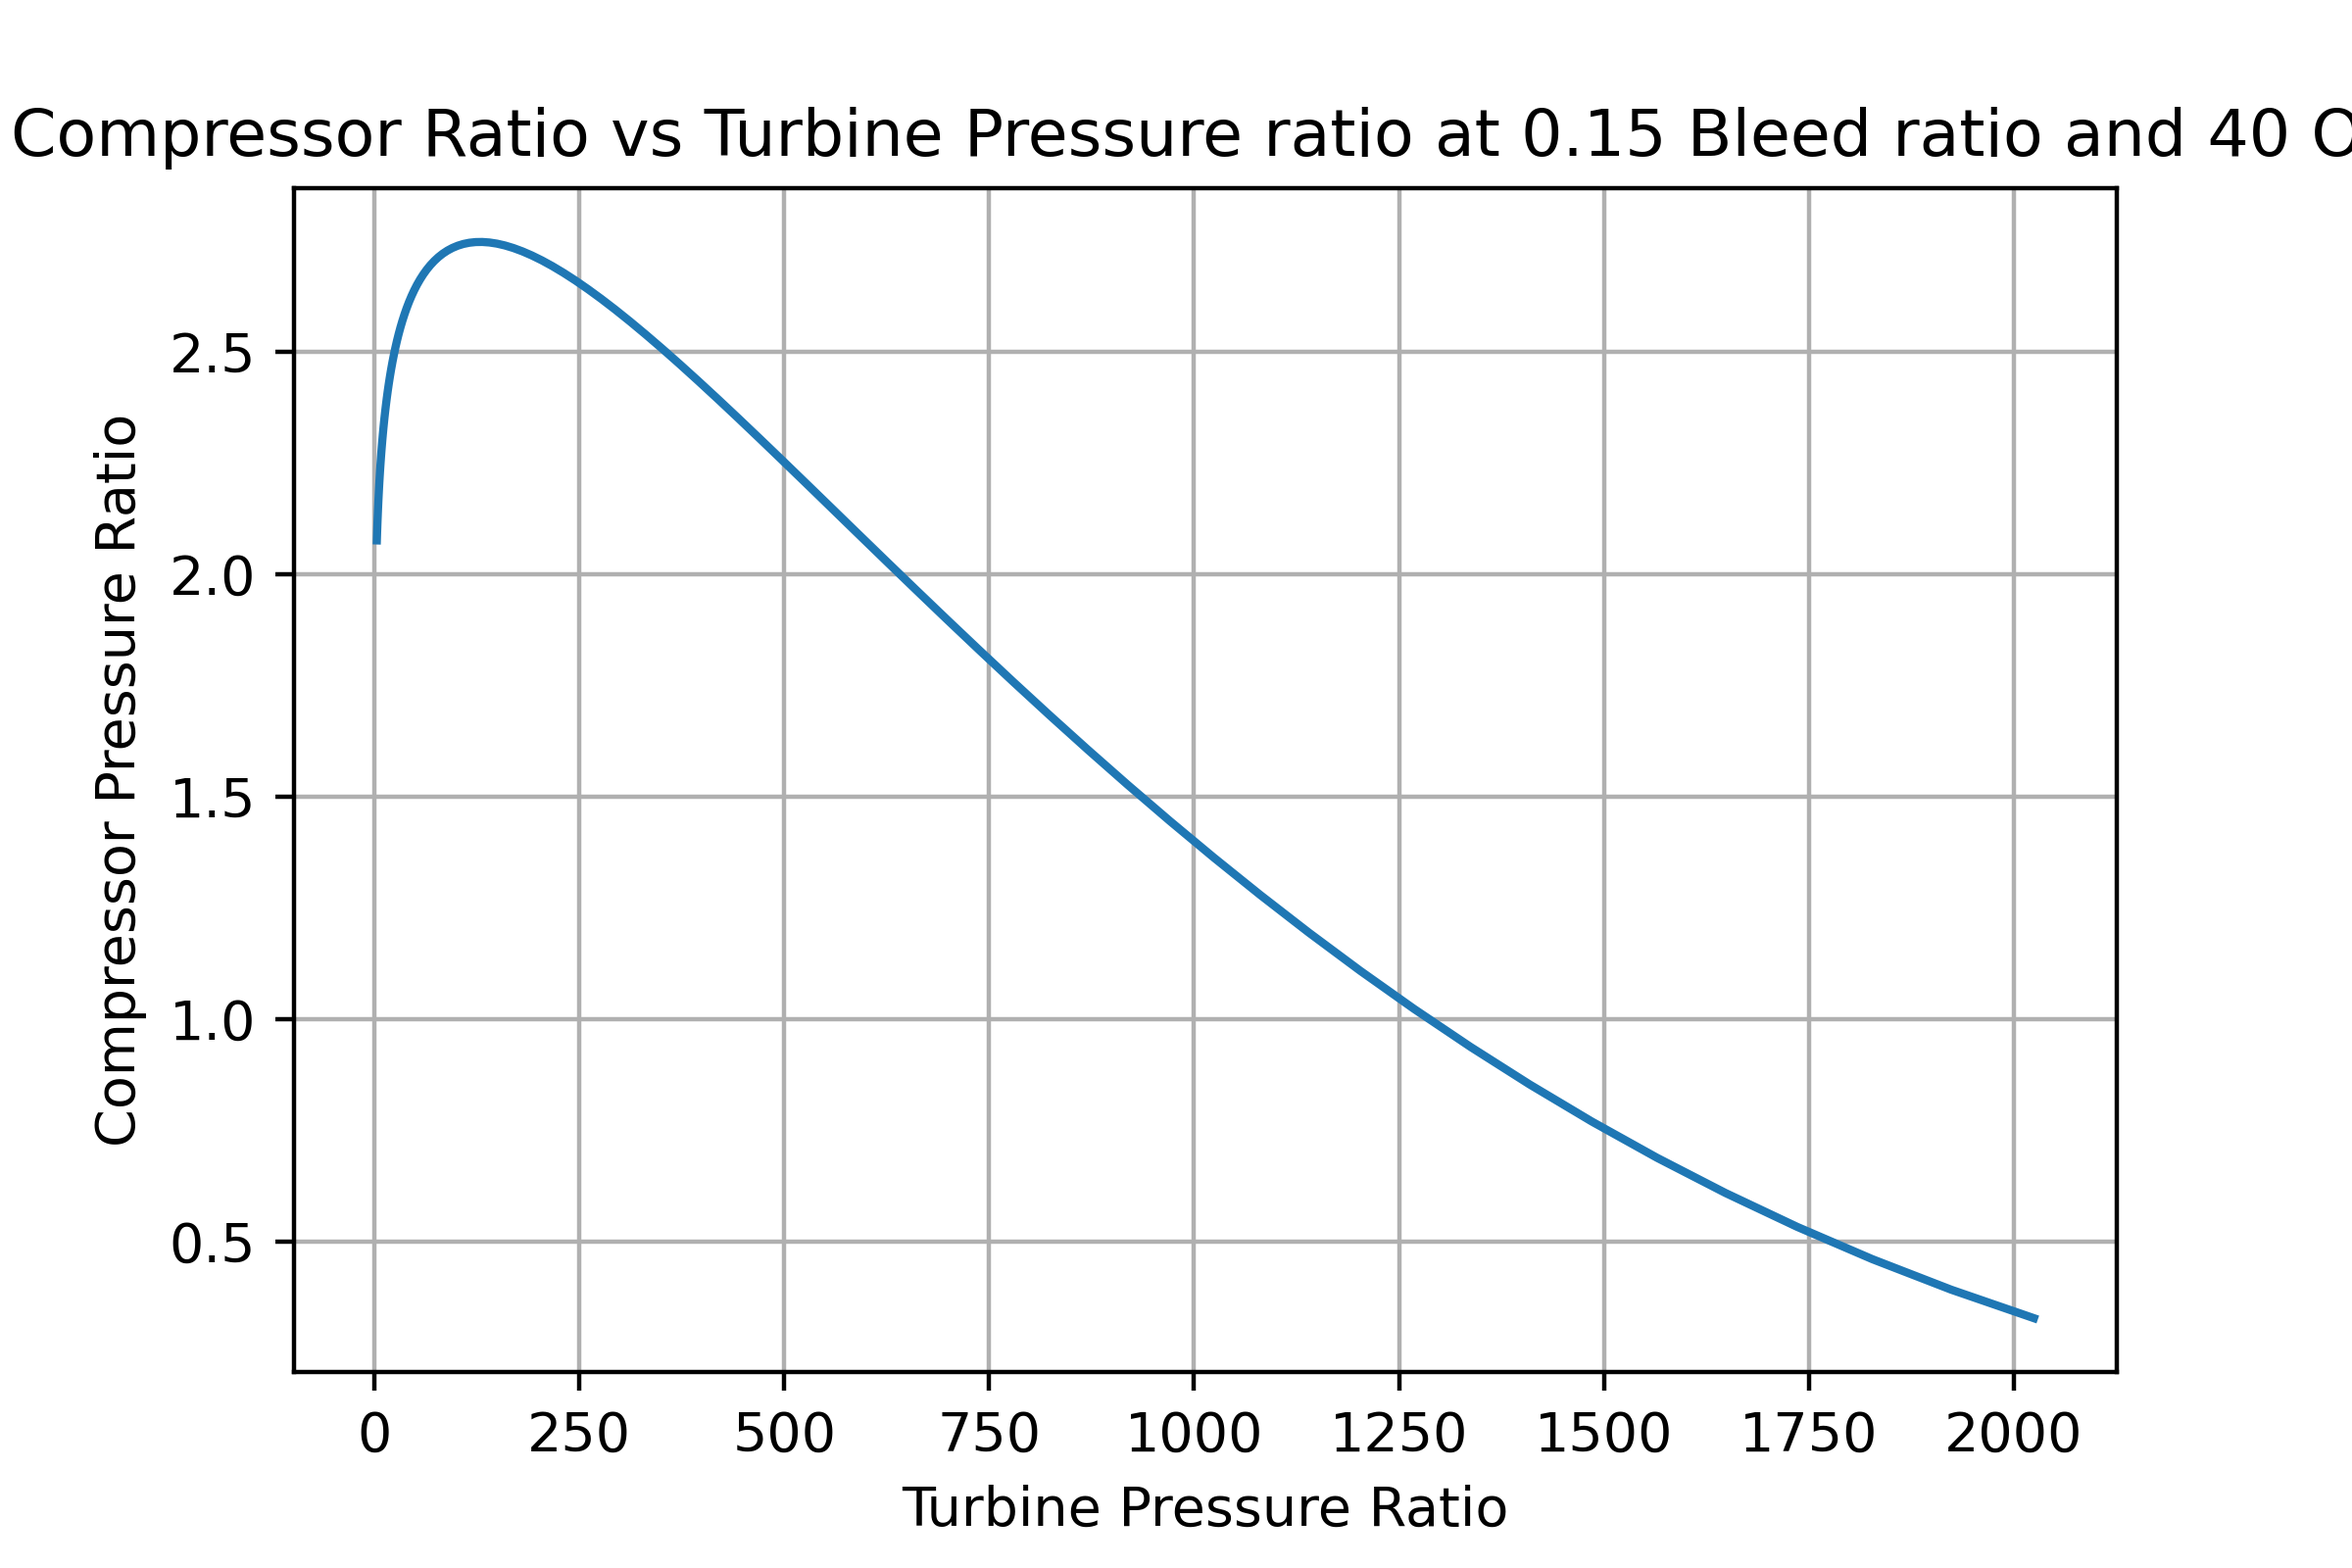
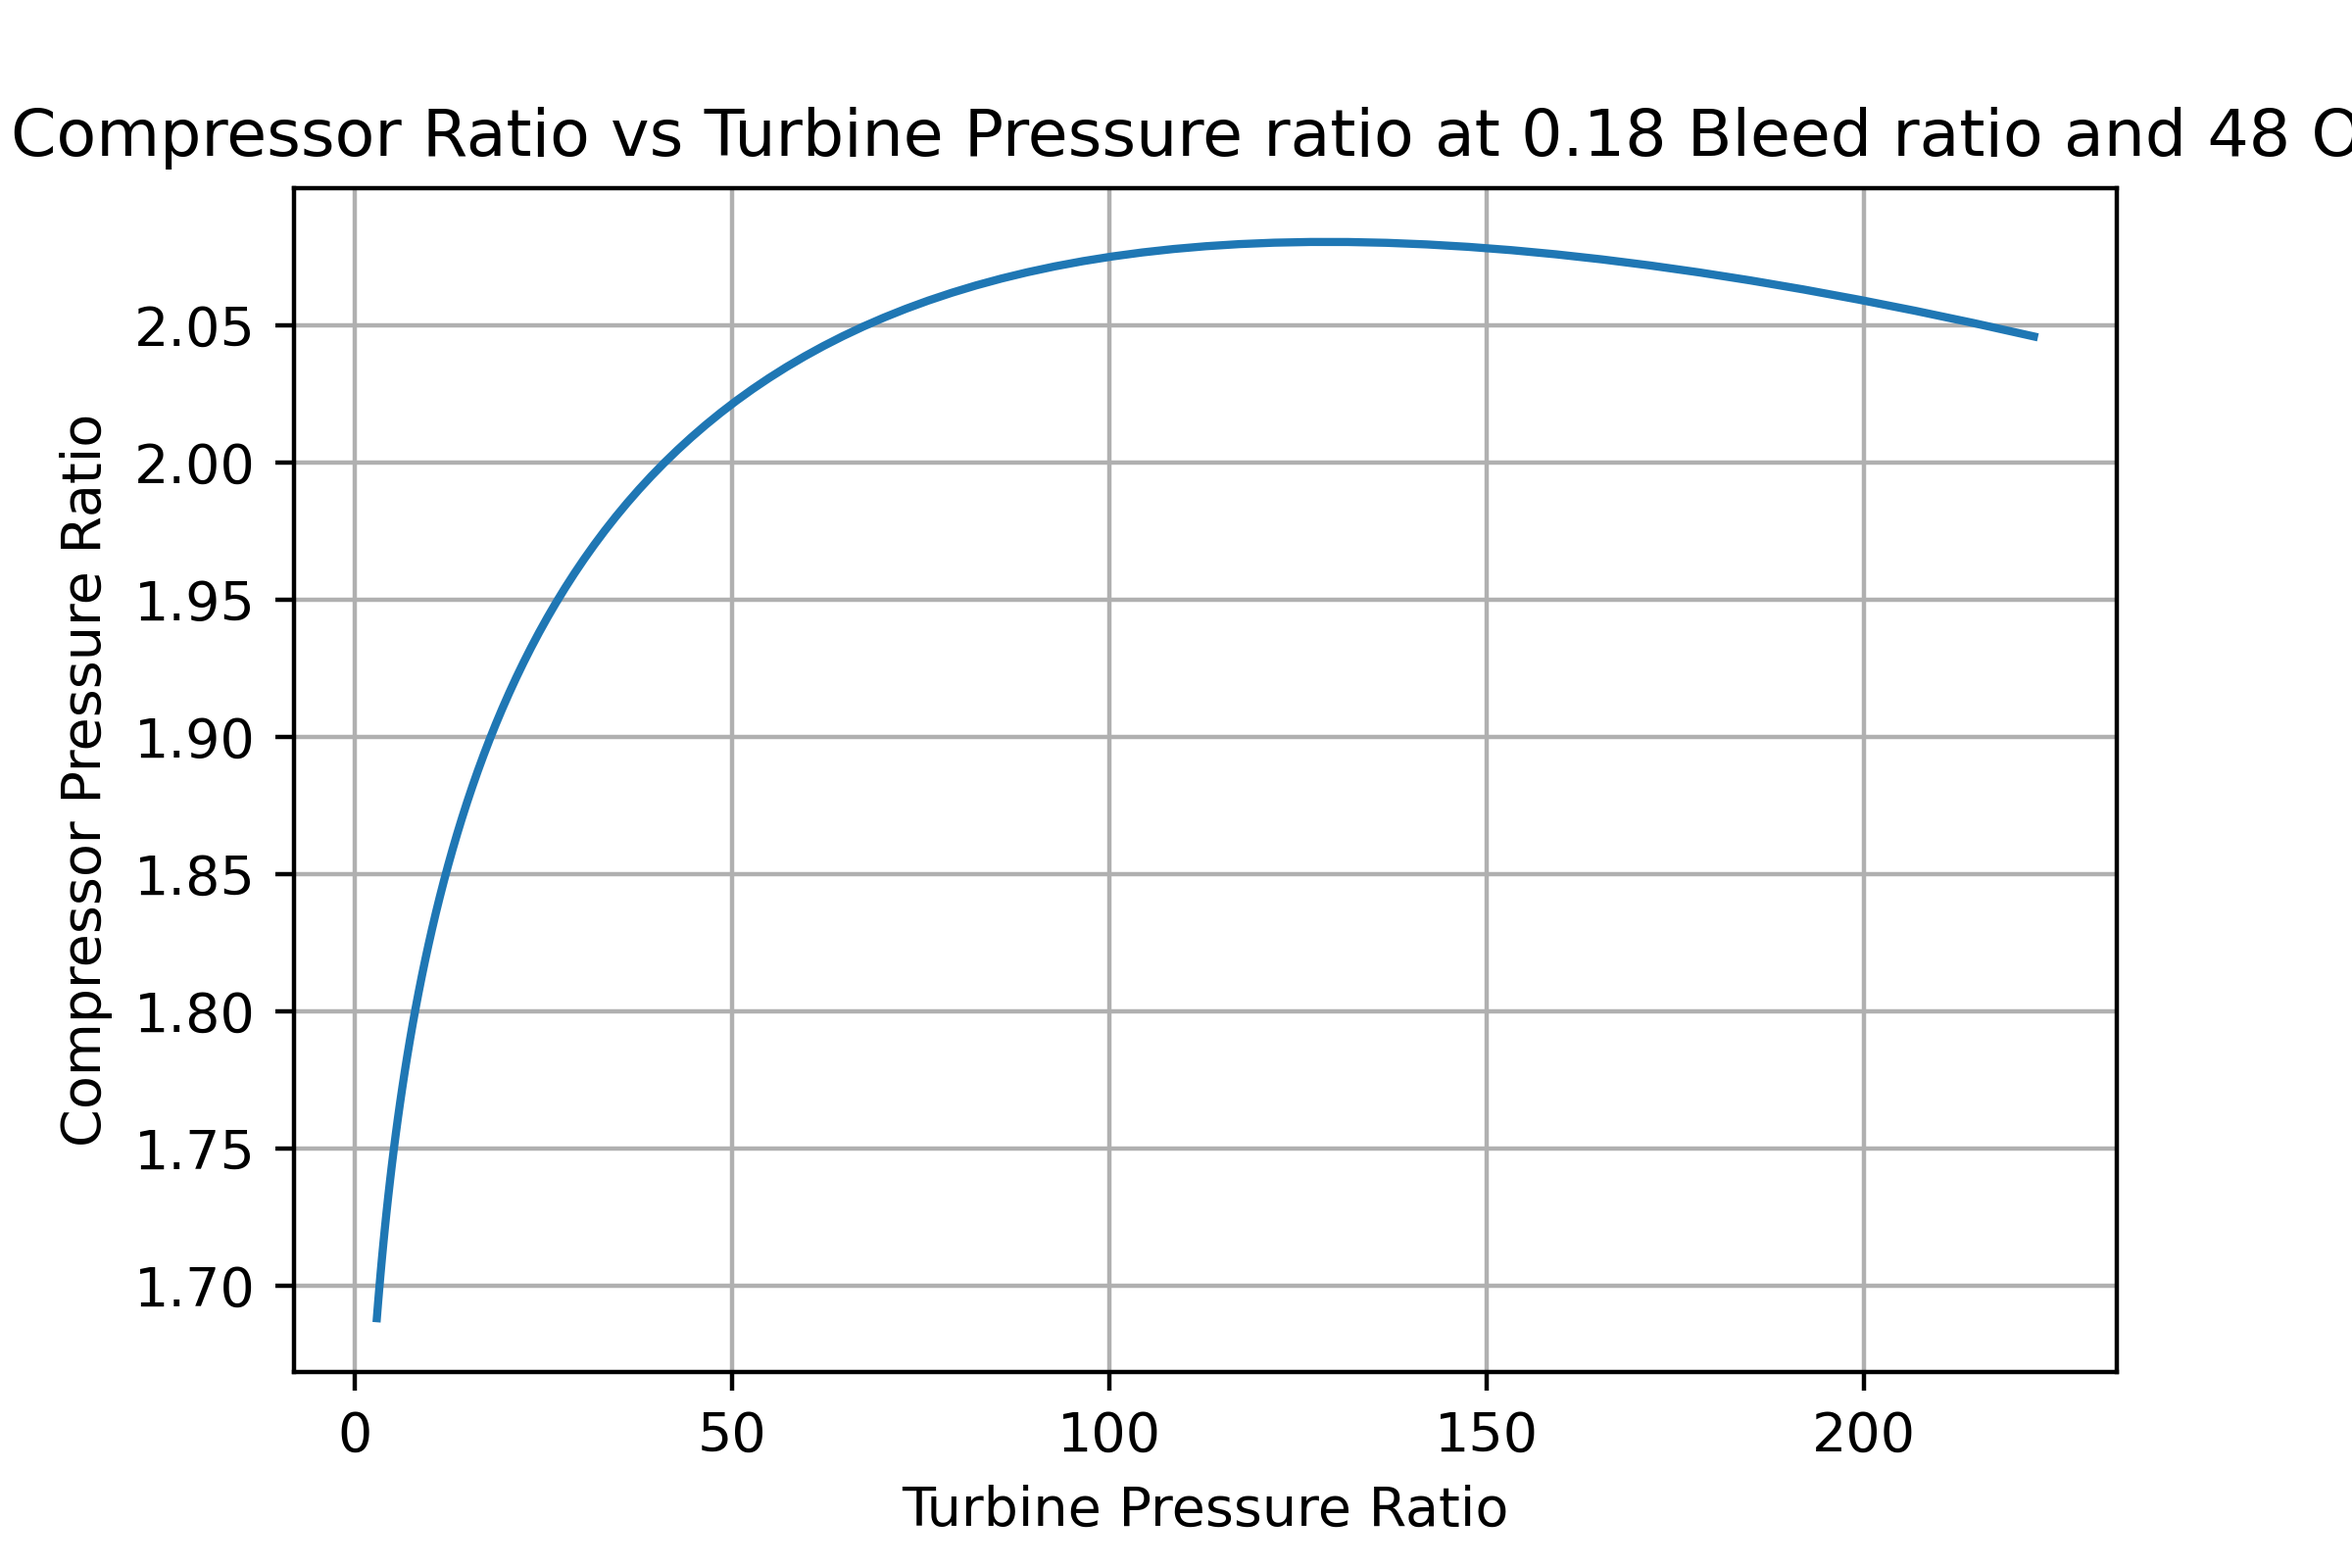
Some cea isp analysis to figure out optimal pressure and of ratio

diff --git a/Cycle_Analysis_2.py b/Cycle_Analysis_2.py
@@ -86,7 +86,7 @@ def compressor_temp(Tmin, Tmax_guess, cp_fit_coeff, specific_power):
         Tmax_guess += SP_error*1.0001 
         if SP_error < 0.001 and SP_error > -0.001:
             run = False
-    #print("Tmax guess:",Tmax_guess)
+    print("Tmax:",Tmax_guess)
     return Tmax_guess
 
 def T_to_P_ratio(Tmin, Tmax, gamma):
@@ -111,11 +111,11 @@ pmin = 150000 #Pa, needs to be around 150 kPa or more to ensure condensation at 
 cooling_pressure_drop = 300000 #Pressure drop over fuel cooling channels
 heating_pressure_drop = 600000 #Pressure drop over fuel heating channels
 cp_air_coeff = cp_polyfit(100, 4, path_air) #air cp is ~constant with pressure changes
-bleed_ratio = 0.15
-OF = 40
+bleed_ratio = 0.18
+OF = 48
 
 "Calculating Turbine Work"
-Tmax_list = np.linspace(350, 600, 100) #K
+Tmax_list = np.linspace(350, 500, 100) #K
 turb_pr = []
 comp_pr = []
 Tmin = 320 #K
@@ -135,7 +135,7 @@ for Tmax in Tmax_list:
     "Calculating Compressor Work"
     
     compressor_specific_power = -(turbine_specific_power+pump_specific_power)/(OF*bleed_ratio)
-    
+    print(compressor_specific_power)
     T_compressor = compressor_temp(T_ambiant, 500, cp_air_coeff, compressor_specific_power) 
     #print("Tempurature at end of compressor: ",T_compressor,"K")
     

diff --git a/CEA_results.py b/CEA_results.py
@@ -1,0 +1,47 @@
+# -*- coding: utf-8 -*-
+"""
+Created on Tue Mar 26 01:14:31 2024
+
+@author: Bobke
+"""
+import numpy as np
+import matplotlib.pyplot as plt
+
+#atmospheric
+"""
+P_c = np.array([2.0265, 2.2292, 2.3305])
+OF = np.array([45])
+v_j = np.array([664.6, 749.2, 768.1])
+"""
+
+P_c = np.array([1.5199, 1.6212, 1.7225,1.8238, 1.9252, 2.0265])
+OF = np.array([48])
+vj = np.array([519.4, 557.1, 589.9,618.8, 644.6, 667.9])
+
+isp = vj*OF
+plt.figure(1)
+plt.title("isp vs Pc at OF of 48 ")
+plt.plot(P_c, isp, label = "isp")
+#plt.plot(turb_pr, Tmax_list, label = "Compressor Pressure Ratio")
+plt.ylabel("isp (m/s)")
+plt.xlabel("Chamber Pressure [Bars]")
+plt.grid()
+plt.savefig('isp_vs_Pc.png', dpi = 400)
+plt.show()
+
+print(isp)
+P_c = 2.0265
+OF_2 = np.array([48, 50, 52, 54, 56, 58, 60])
+vj_2 =  np.array([667.9, 659.7, 652.0, 644.8, 638.0, 631.5, 625.4])
+isp_2 = vj_2*OF_2
+print(isp_2)
+
+plt.figure(2)
+plt.title("isp vs OF at Pc of 2 bars ")
+plt.plot(OF_2, isp_2, label = "isp")
+#plt.plot(turb_pr, Tmax_list, label = "Compressor Pressure Ratio")
+plt.ylabel("isp (m/s)")
+plt.xlabel("OF ratio")
+plt.grid()
+plt.savefig('isp_vs_OF.png', dpi = 400)
+plt.show()
